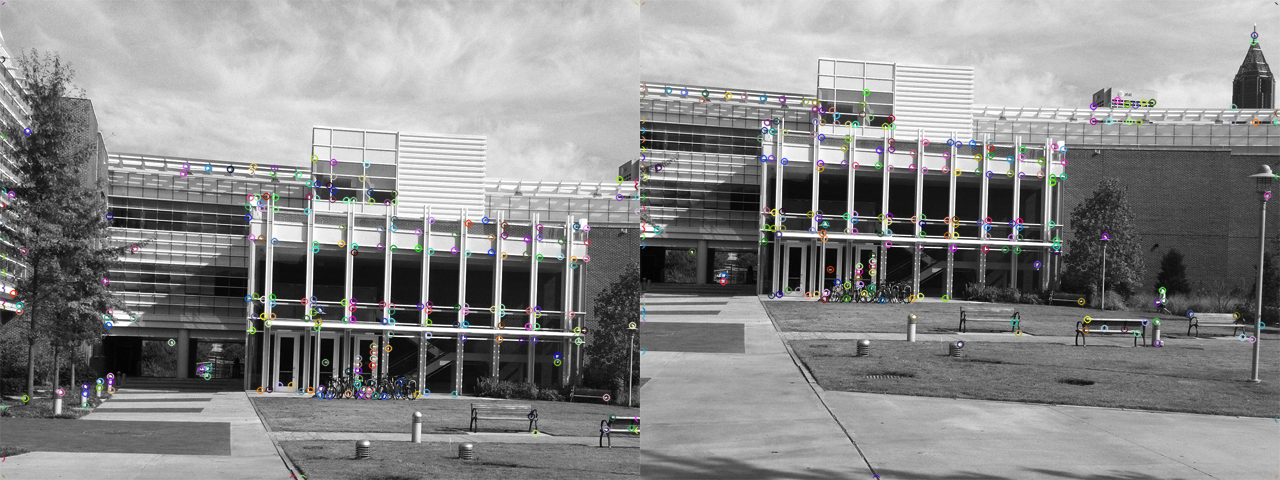
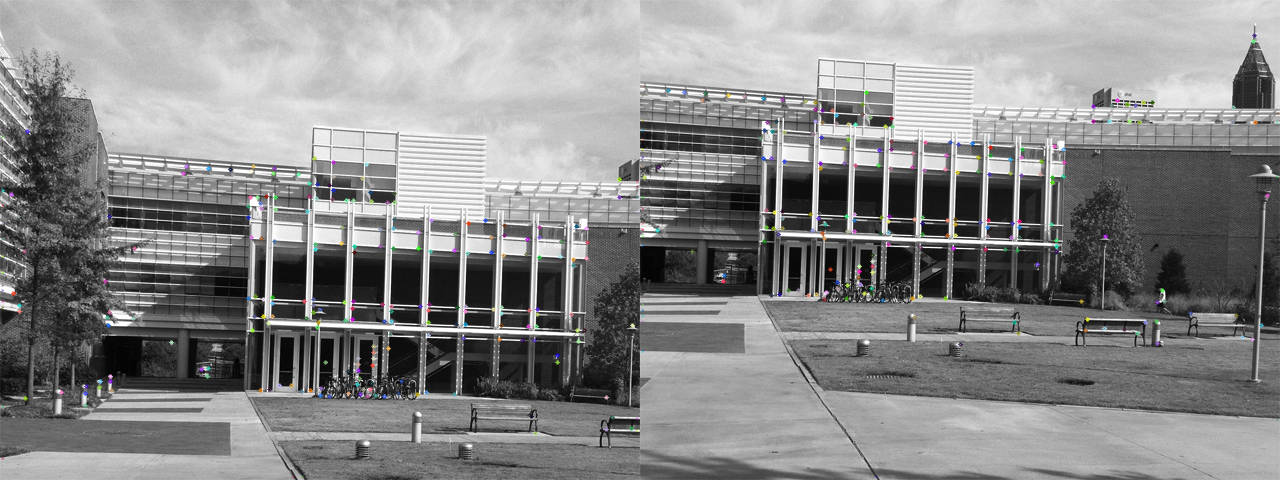
ransac working for trans but not for sim

diff --git a/ps4_python_Plokhovska_Zhanneta/ps4.py b/ps4_python_Plokhovska_Zhanneta/ps4.py
@@ -5,6 +5,7 @@ import numpy as np
 import cv2
 import math
 import random
+from matplotlib import pyplot as plt
 
 #################################################################################
 # Normalize image
@@ -92,6 +93,11 @@ def find_corner_points(harris_img, threshold = 0.5, nHoodSize = [1, 1]):
 	numCorners = 0
 	
 	while(True):
+	
+		# Test on 10 points
+		if numCorners == 10:
+			break
+	
 		# Find maximum value in Hough
 		max_row, max_column = np.unravel_index(np.argmax(harris_img), (rows, columns)) # Returns location of maximum value in harris_img
 		#print str(max_row) + " " + str(max_column)
@@ -116,11 +122,12 @@ def find_corner_points(harris_img, threshold = 0.5, nHoodSize = [1, 1]):
 			
 	return np.array(Q)
 
-def compute_keypoints(Ix, Iy, points):
-	rows, columns = Ix.shape
+#################################################################################
+# Translate feature points into SIFT keypoints using X and Y gradients 
+#################################################################################
+def compute_keypoints(points):
 	# Compute an angle for every point
 	angles = np.arctan2(points[:, 0], points[:, 1])
-	
 	keypoints = []
 	# Create list of keypoints
 	for i in range((points.shape)[0]):
@@ -130,8 +137,164 @@ def compute_keypoints(Ix, Iy, points):
 	
 	return keypoints
 
-def draw_matches():
-	print "TO DO"
+#################################################################################
+# Use matches and points from SIFT to draw lines connecting points in two images 
+#################################################################################
+def draw_matches(img1, points1, img2, points2, matches):
+	rows, columns = img1.shape
+	# Concatenate two images
+	img_concat = cv2.hconcat([img1, img2])
+	# Change image from gray to colored image
+	img_concat = cv2.cvtColor(img_concat, cv2.COLOR_GRAY2RGB)
+	for m in matches:
+		#print "\nIndex1: {} Index2: {}\n".format(m.queryIdx, m.trainIdx)
+		#print "Point1: {}, {}".format(points1[index1].pt[0], points1[index1].pt[1])
+		#print "Point2: {}, {}".format(points2[index2].pt[0], points2[index2].pt[1])
+		# Index in points1 and points2
+		index1 = m.queryIdx
+		index2 = m.trainIdx
+		# Index in img1 and img2
+		p1_col = int(points1[index1].pt[0])
+		p1_row = int(points1[index1].pt[1])
+		p2_col = int(points2[index2].pt[0]) + columns
+		p2_row = int(points2[index2].pt[1])
+		# Draw key points
+		cv2.circle(img_concat, (p1_col, p1_row), 3, (255, 0, 0), thickness = 1, lineType = 8) # Draw a circle using center coordinates and radius
+		cv2.circle(img_concat, (p2_col, p2_row), 3, (255, 0, 0), thickness = 1, lineType = 8) # Draw a circle using center coordinates and radius
+		# Draw line (image, (column, row), (column, row), color, thickness)
+		cv2.line(img_concat, (p1_col, p1_row), (p2_col, p2_row), (255, 0, 0), 1)
+		
+	return img_concat
+
+def calculate_residual(point1, point2):
+	# You can do the comparison by checking the residual
+	# between the predicted location of each test point using your equation and the actual location
+	# given by the 2D input data. The residual is just the distance (square root of the sum of squared
+	# differences in u and v).
+	return math.sqrt(math.pow(point1[0] - point2[0], 2) + math.pow(point1[1] - point2[1], 2))
+
+#################################################################################
+# Ransac_translation returns matches for translation images with best consensus
+# s - minimal set (minimal number to fit the model)
+# t - distance threshold (needs noise model)
+# N - number of samples (Choose N so that, with probability p, at least one
+#     random sample set is free from outliers (e.g. p = 0.99))
+#################################################################################
+def ransac_translation(points1, points2, matches):	
+	# Calculate N (number of samples)
+	s = 2 # minimal set (minimal number to fit the model)
+	p = 0.99 # probability of success - designer's choice
+	e = 0.05 # proportion of outliers, inliers = (1 - e) - designer's choice
+	N = int(math.log(1 - p, 2) / math.log(1 - math.pow(1 - e, s)))
+	#print "\nN: {}\n".format(N)
+	# Calculate t (threshold for residual)
+	t = 200
+
+	matches_len = len(matches)
+	offsets = []
+	# Calculate offset for every match
+	for i in range(matches_len):
+		m = matches[i]
+		# Offsets
+		col_offset = int(points1[m.queryIdx].pt[0] - points2[m.trainIdx].pt[0])
+		row_offset = int(points1[m.queryIdx].pt[1] - points2[m.trainIdx].pt[1])
+		offsets.append([col_offset, row_offset])
+	offsets = np.array(offsets)
+
+	# Randomly select N of the putative matches - calculate offset (a translation in X and Y ) between the two images
+	# Find out how many other putative matches agree with this offset (account for noise)
+	random_matches = []
+	if N > matches_len:
+		random_matches = random.sample(range(0, matches_len), matches_len)
+	else:
+		random_matches = random.sample(range(0, matches_len), N)
+	best_consensus = [] # initially no matches
+	best_consensus_count = 0 # initially no matches
+	best_offset = []
+	for i in random_matches:
+		# Offsets
+		offset = offsets[i]
+		
+		matches_new = []
+		matches_new_count = 0
+		for i_new in range(matches_len):
+			# Offsets
+			offset_residual = calculate_residual(offset, offsets[i_new])
+			# Check that the difference in offsets (residual) is not too large
+			if (offset_residual < t):
+				matches_new.append(matches[i_new])
+				matches_new_count = matches_new_count + 1
+				
+		if best_consensus_count < matches_new_count:
+			best_consensus = matches_new
+			best_consensus_count = matches_new_count
+			best_offset = offset
+	
+	#print "\nBest offset: {}\n".format(best_offset)
+	return best_consensus
+'''
+#################################################################################
+# Ransac_similarity returns matches for translation images with best consensus
+# s - minimal set (minimal number to fit the model)
+# t - distance threshold (needs noise model)
+# N - number of samples (Choose N so that, with probability p, at least one
+#     random sample set is free from outliers (e.g. p = 0.99))
+#################################################################################
+def ransac_similarity(points1, points2, matches):	
+	# Calculate N (number of samples)
+	s = 4 # minimal set (minimal number to fit the model)
+	p = 0.99 # probability of success - designer's choice
+	e = 0.05 # proportion of outliers, inliers = (1 - e) - designer's choice
+	N = int(math.log(1 - p, 2) / math.log(1 - math.pow(1 - e, s)))
+	#print "\nN: {}\n".format(N)
+	# Calculate t (threshold for residual)
+	t = 200
+
+	matches_len = len(matches)
+
+	# Randomly select N of the putative matches - calculate offset (a translation in X and Y ) between the two images
+	# Find out how many other putative matches agree with this offset (account for noise)
+	best_consensus = [] # initially no matches
+	best_consensus_count = 0 # initially no matches
+	best_offset = []
+	for i in range(N):
+		random_matches = random.sample(range(0, matches_len), matches_len - (matches_len % 2))
+		
+		###############
+		TODOOOOOOOOOOO
+		###############
+		
+		matches_new = []
+		matches_new_count = 0
+		for i_new in range(matches_len):
+			# Offsets
+			offset_residual = calculate_residual(offset, offsets[i_new])
+			# Check that the difference in offsets (residual) is not too large
+			if (offset_residual < t):
+				matches_new.append(matches[i_new])
+				matches_new_count = matches_new_count + 1
+				
+		if best_consensus_count < matches_new_count:
+			best_consensus = matches_new
+			best_consensus_count = matches_new_count
+			best_offset = offset
+	
+	#print "\nBest offset: {}\n".format(best_offset)
+	return best_consensus
+'''
+#################################################################################
+# Solves for similarity transform using 2 pair 
+#################################################################################
+def solve_similarity_transform(point1_1, point1_2, point2_1, point2_2):
+	# Create 4 by 5 matrix to solve using Gaussian elimination
+	A = np.array([[point1_1[0], -point1_1[1], 1, 0], 
+				  [point1_1[1], point1_1[0], 0, 1], 
+				  [point2_1[0], -point2_1[1], 1, 0], 
+				  [point2_1[1], point2_1[0], 0, 1]])
+	b = np.array([point1_2[0], point1_2[1], point2_2[0], point2_2[1]])
+	solution = numpy.linalg.solve(A, b) # [a, b, c, d]
+	similarity_transform = np.array([[solution[0], -solution[1], solution[2]], [solution[1], solution[0], solution[3]]])
+	return similarity_transform
 	
 def main():
 	# 1-A: Compute X and Y gradients
@@ -221,24 +384,31 @@ def main():
 	# Plot/show accumulator array H, save as output/ps1-2-a-1.png
 	cv2.imwrite('output/ps4-1-c-4.png', simB_draw_corner_points)
 	
-	# 2-A: Interest points an angles
+	# 2-A: SIFT - Interest points an angles
 	print "\n-----------------------2-A-----------------------"
 	# Calculate angles for every keypoint pair in every image
-	transA_keypoints = compute_keypoints(transA_x, transA_y, transA_corner_points)
-	transB_keypoints = compute_keypoints(transB_x, transB_y, transB_corner_points)
-	simA_keypoints = compute_keypoints(simA_x, simA_y, simA_corner_points)
-	simB_keypoints = compute_keypoints(simB_x, simB_y, simB_corner_points)
+	transA_keypoints = compute_keypoints(transA_corner_points)
+	transB_keypoints = compute_keypoints(transB_corner_points)
+	simA_keypoints = compute_keypoints(simA_corner_points)
+	simB_keypoints = compute_keypoints(simB_corner_points)
 	# Draw keypoints on image
-	transA_draw_keypoints = cv2.drawKeypoints(transA, transA_keypoints, None)
-	transB_draw_keypoints = cv2.drawKeypoints(transB, transB_keypoints, None)
+	transA_draw_keypoints = cv2.drawKeypoints(transA, transA_keypoints, None, flags=cv2.DRAW_MATCHES_FLAGS_DRAW_RICH_KEYPOINTS)
+	transB_draw_keypoints = cv2.drawKeypoints(transB, transB_keypoints, None, flags=cv2.DRAW_MATCHES_FLAGS_DRAW_RICH_KEYPOINTS)
+	
+	plt.subplot(121),plt.imshow(transA_draw_keypoints)
+	plt.title('Original Image'), plt.xticks([]), plt.yticks([])
+	plt.subplot(122),plt.imshow(transB_draw_keypoints)
+	plt.title('Edge Image'), plt.xticks([]), plt.yticks([])
+	plt.show()
+
 	transAB_with_keypoints = cv2.hconcat([transA_draw_keypoints, transB_draw_keypoints])
 	cv2.imwrite('output/ps4-2-a-1.png', transAB_with_keypoints)
-	simA_draw_keypoints = cv2.drawKeypoints(simA, simA_keypoints, None)
-	simB_draw_keypoints = cv2.drawKeypoints(simB, simB_keypoints, None)
+	simA_draw_keypoints = cv2.drawKeypoints(simA, simA_keypoints, None, flags=cv2.DRAW_MATCHES_FLAGS_DRAW_RICH_KEYPOINTS)
+	simB_draw_keypoints = cv2.drawKeypoints(simB, simB_keypoints, None, flags=cv2.DRAW_MATCHES_FLAGS_DRAW_RICH_KEYPOINTS)
 	simAB_with_keypoints = cv2.hconcat([simA_draw_keypoints, simB_draw_keypoints])
 	cv2.imwrite('output/ps4-2-a-2.png', simAB_with_keypoints)
 	
-	# 2-B: Interest points an angles
+	# 2-B: SIFT - Interest points an angles
 	print "\n-----------------------2-B-----------------------"
 	# Create an instance of the class cv2.SIFT
 	sift = cv2.xfeatures2d.SIFT_create()
@@ -255,13 +425,27 @@ def main():
 	# Sort them in order of distance
 	trans_matches = sorted(trans_matches, key = lambda x:x.distance)
 	sim_matches = sorted(sim_matches, key = lambda x:x.distance)
-	# Draw best 10 matches
-	trans_putative_pair_image = cv2.drawMatches(transA, transA_points, transB, transB_points, trans_matches[:10], None, flags=2)
-	sim_putative_pair_image = cv2.drawMatches(simA, simA_points, simB, simB_points, sim_matches[:10], None, flags=2)
+	# Draw lines connecting points in two images
+	#trans_putative_pair_image = cv2.drawMatches(transA, transA_points, transB, transB_points, trans_matches, None, flags=2)
+	#sim_putative_pair_image = cv2.drawMatches(simA, simA_points, simB, simB_points, sim_matches, None, flags=2)
+	trans_putative_pair_image = draw_matches(transA, transA_points, transB, transB_points, trans_matches)
+	sim_putative_pair_image = draw_matches(simA, simA_points, simB, simB_points, sim_matches)
 	# Save images
 	cv2.imwrite('output/ps4-2-b-1.png', trans_putative_pair_image)
 	cv2.imwrite('output/ps4-2-b-2.png', sim_putative_pair_image)
-
+	
+	# 3-A: RANSAC - Translational case
+	print "\n-----------------------3-A-----------------------"
+	trans_best_matches = ransac_translation(transA_points, transB_points, trans_matches)
+	trans_putative_pair_image = draw_matches(transA, transA_points, transB, transB_points, trans_best_matches)
+	cv2.imwrite('output/ps4-3-a-1.png', trans_putative_pair_image)
+	'''
+	# 3-B: RANSAC - Similarity transform - similarity transform allows translation, rotation and scaling
+	print "\n-----------------------3-B-----------------------"
+	sim_best_matches = ransac_similarity(simA_points, simB_points, sim_matches)
+	sim_putative_pair_image = draw_matches(simA, simA_points, simB, simB_points, sim_best_matches)
+	cv2.imwrite('output/ps4-3-a-1.png', sim_putative_pair_image)
+	'''
 	
 if __name__ == "__main__":
 	main()
